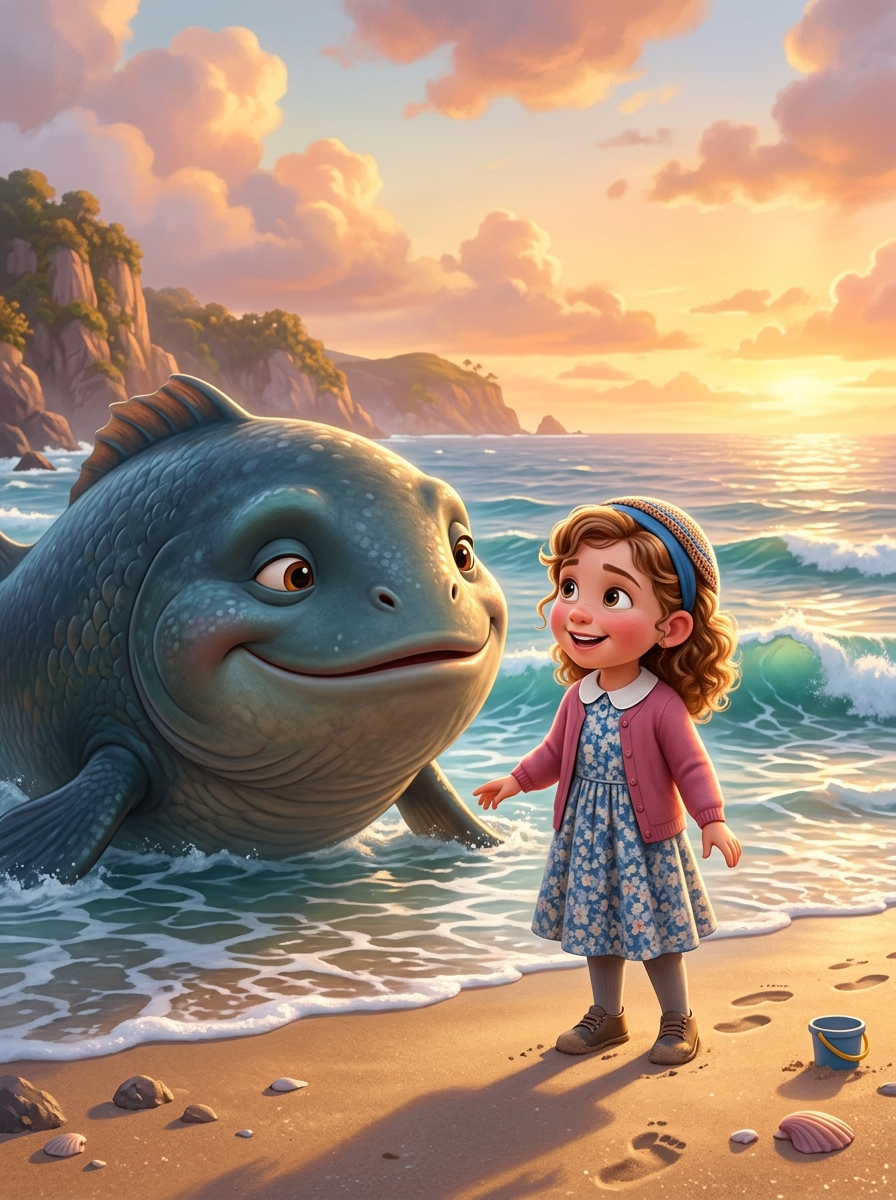
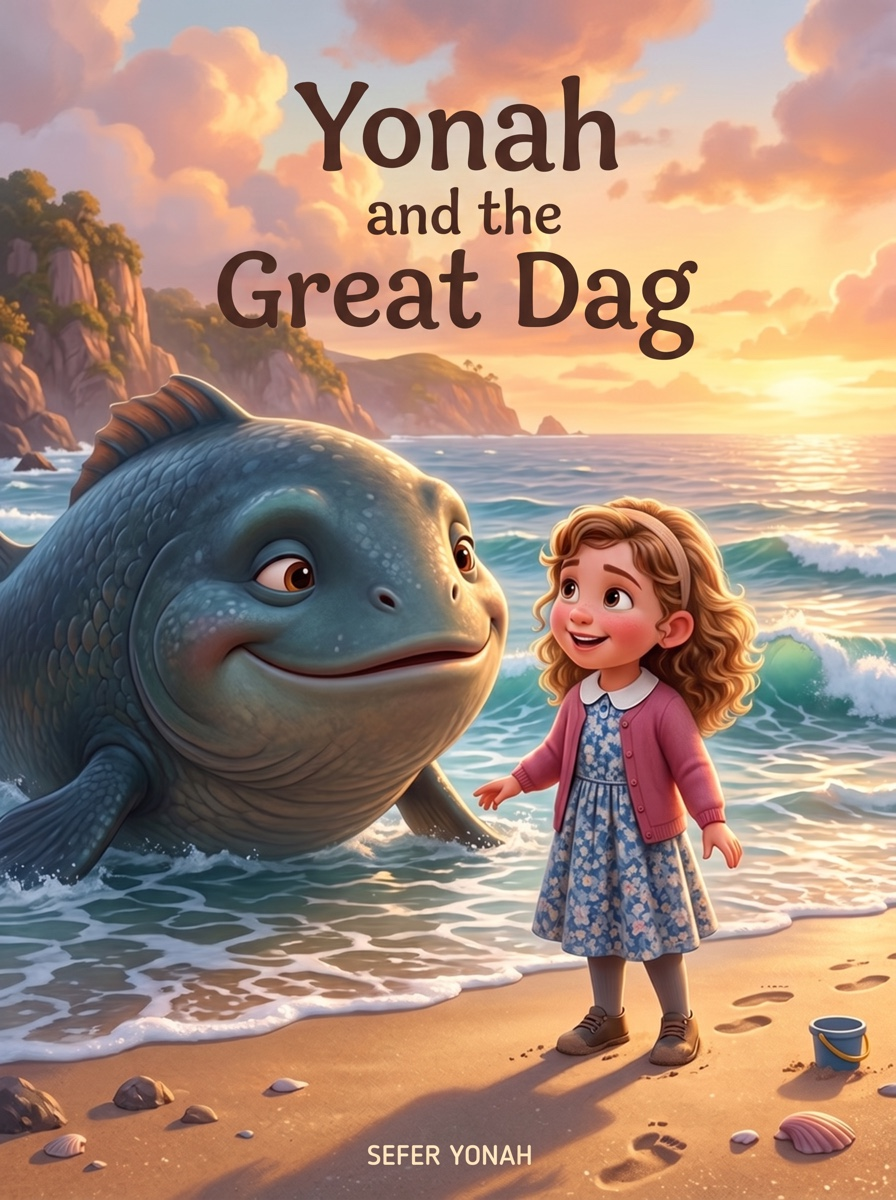
Auth page + How-It-Works/gallery imagery polish
Auth (login/signup) page:
- Use the single combined Torah Tale logo lockup (one asset) instead of the
  separate icon + small, far-apart wordmark.
- Show the Full Name field only on sign-up; login is email + password only.

Imagery (regenerated, tznius-corrected, names updated):
- Step 1 "Add your children" mockup: kids renamed Lily/Ben -> Adina/Ari, plus a
  Hebrew RTL variant (עדינה/ארי, הוסיפו את הילדים שלכם, העלאת תמונה, המשך) shown
  on Hebrew/Yiddish via HowItWorks.
- Step 3 "delivered" photo: girl's dress lengthened to cover her knees.
- Gallery s10 (Yonah) cover: removed the kippah from the girl (natural hair).

diff --git a/src/pages/Auth.tsx b/src/pages/Auth.tsx
@@ -2,7 +2,7 @@ import { useState, useEffect } from "react";
 import { useNavigate, useSearchParams, useLocation } from "react-router-dom";
 import { motion } from "framer-motion";
 import { Mail, Lock, User, ArrowLeft } from "lucide-react";
-import { BrandMark } from "@/components/BrandMark";
+import torahTaleLogoFull from "@/assets/brand/torah-tale-logo-full.png";
 import { Button } from "@/components/ui/button";
 import { Input } from "@/components/ui/input";
 import { Label } from "@/components/ui/label";
@@ -139,7 +139,7 @@ export default function Auth() {
       >
         <div className="text-center mb-5 sm:mb-8">
           <a href="/" className="inline-flex mx-auto mb-3 sm:mb-5">
-            <BrandMark stacked className="gap-1" iconClassName="h-20 w-20 sm:h-24 sm:w-24" wordmarkClassName="h-16 sm:h-[4.5rem] w-auto" />
+            <img src={torahTaleLogoFull} alt="Torah Tale" className="h-28 sm:h-36 w-auto" />
           </a>
           <h1 className="font-heading text-4xl sm:text-5xl text-foreground tracking-tight">
             {mode === "login" ? t.auth.login : mode === "signup" ? t.auth.register : t.auth.resetPassword}
@@ -216,7 +216,8 @@ export default function Auth() {
                 <ArrowLeft className="w-3 h-3" /> {t.auth.backToOptions}
               </button>
             )}
-            {mode !== "forgot" && (
+            {/* Full name is only collected on sign-up — login just needs email + password. */}
+            {mode === "signup" && (
               <motion.div
                 variants={fieldVariants}
                 animate={focusedField === "fullName" ? "focused" : "idle"}

diff --git a/src/components/HowItWorks.tsx b/src/components/HowItWorks.tsx
@@ -5,19 +5,24 @@ import { useSiteSettings } from "@/hooks/useSiteSettings";
 import { useLanguage } from "@/contexts/LanguageContext";
 
 import step1Img from "@/assets/steps/step1-tell-us.png";
+import step1ImgHe from "@/assets/steps/step1-tell-us-he.png";
 import step2Img from "@/assets/steps/step2-ai-creates.png";
 import step3Img from "@/assets/steps/step3-delivered.png";
 
 const icons = [UserRound, Wand2, Truck];
-const images = [step1Img, step2Img, step3Img];
 const numbers = ["01", "02", "03"];
 
 const ease = [0.16, 1, 0.3, 1] as const;
 
 export const HowItWorks = () => {
   const { getSetting } = useSiteSettings("website");
-  const { t } = useLanguage();
+  const { t, lang } = useLanguage();
   const sectionRef = useRef<HTMLElement>(null);
+
+  // Step 1 (the "Add your children" mockup) has baked-in UI text, so Hebrew/
+  // Yiddish books show a localized RTL version; steps 2–3 are text-free.
+  const isHe = lang === "he" || lang === "yi";
+  const images = [isHe ? step1ImgHe : step1Img, step2Img, step3Img];
 
   const { scrollYProgress } = useScroll({ target: sectionRef, offset: ["start end", "end start"] });
   const blobY1 = useTransform(scrollYProgress, [0, 1], [70, -70]);
